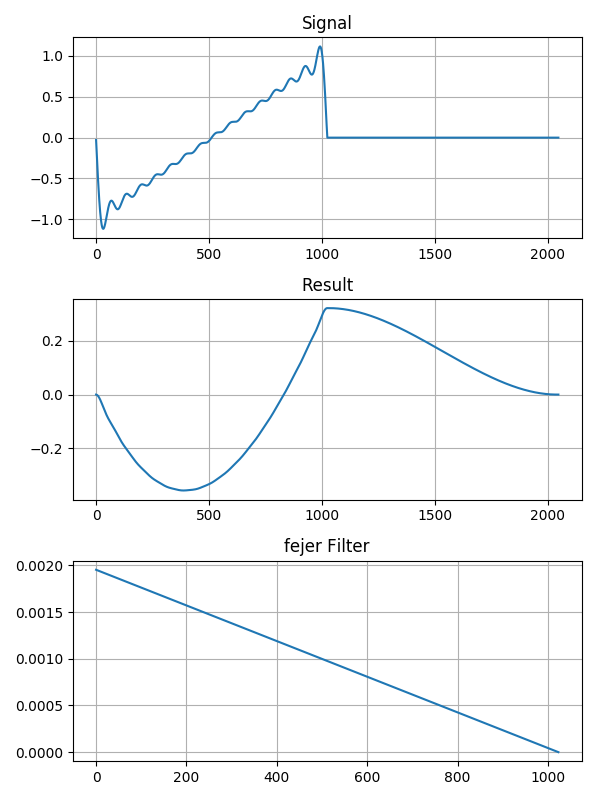
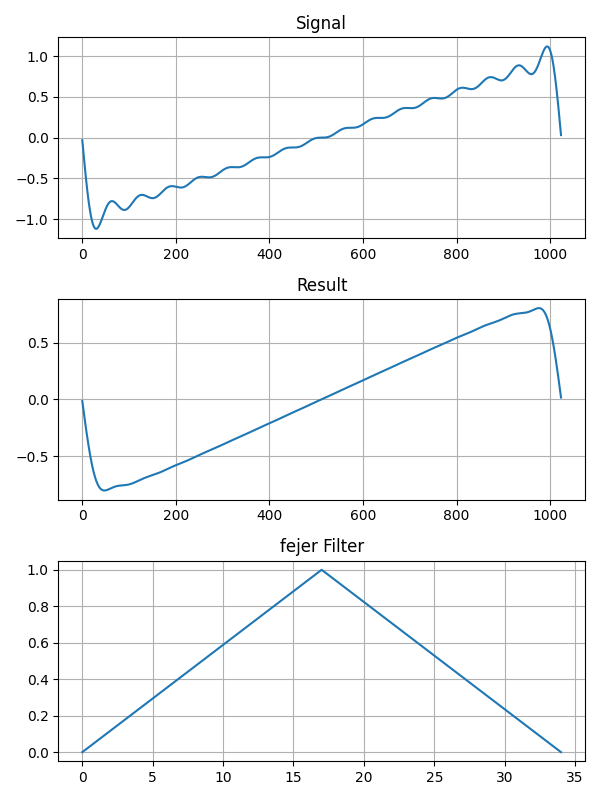
Fix gibbs
Several issues are pointed out by @NukeKarasawa40298 on GitHub. Their fix to `gibbs.py` (linked below) is merged into this commit.

https://github.com/NukeKarasawa40298/NukeKarasawa40298.github.io/blob/main/gibbs/gibbs_.py

List of fixes:

- Fix to apply filters on frequency domain instead of time domain.
- Fix Maxima code to compute Daubechies filter.

diff --git a/gibbs/demo/gibbs.py b/gibbs/demo/gibbs.py
@@ -30,21 +30,23 @@ def analyticSignal(length, numSeries):
     return spectralLowpass(noise, numSeries)
 
 
-def applyFilter(source, filterFunc, power=1):
-    filt = numpy.zeros(len(source))
-    half = (len(source) - 1) / 2
-    for i in range(len(filt)):
-        eta = (i - half) / half
+def applyFilter(source, filterFunc, numSeries, power=1):
+    spec = numpy.fft.rfft(source)
+    filt = numpy.zeros(len(spec))
+    m = numSeries + 1
+    for i in range(m):
+        eta = i / m
         filt[i] = filterFunc(eta) ** power
-    filt /= numpy.sum(filt)
 
-    return (convolve(source, filt, mode="full"), filt)
+    applied = numpy.fft.irfft(spec * filt)
+    filt = numpy.append(filt[m:0:-1], filt[: m + 1])  # for plot
+
+    return (applied, filt)
 
 
 def plotGibbsSuppression(length, filterFunc, numSeries=16, power=1):
     source = additiveSaw(length, numSeries)
-    suppressed, filt = applyFilter(source, filterFunc, power)
-    source = numpy.append(source, numpy.zeros(length))
+    suppressed, filt = applyFilter(source, filterFunc, numSeries, power)
     plot(
         source,
         suppressed,
@@ -54,7 +56,7 @@ def plotGibbsSuppression(length, filterFunc, numSeries=16, power=1):
     )
 
 
-def fejer(eta):
+def fejer(eta):  # eta < 0 があるなら要abs
     return 1 - eta
 
 
@@ -75,8 +77,8 @@ def exponential(eta, alpha=2**10, p=4):
     return numpy.exp(-alpha * eta**p)
 
 
-def daubechies(eta):
-    return 1 - 210 * eta**4 + 504 * eta**5 - 420 * eta**6 + 120 * eta**7
+def daubechies4(eta):  # eta < 0 があるなら要abs
+    return 1 - 35 * eta**4 + 84 * eta**5 - 70 * eta**6 + 20 * eta**7
 
 
 def plot(signal, result, params, param_name, file_name):
@@ -195,7 +197,7 @@ if __name__ == "__main__":
     plotGibbsSuppression(1024, raisedCosine, 16, 1)
     plotGibbsSuppression(1024, sharpendRaisedCosine, 16, 1)
     plotGibbsSuppression(1024, exponential, 16, 1)
-    plotGibbsSuppression(1024, daubechies, 16, 1)
+    plotGibbsSuppression(1024, daubechies4, 16, 1)
 
     plotGottleibShu(1024, 16)
     plotGottleibShuNoise(1024, analyticSignal, 16)

diff --git a/gibbs/gibbs.md b/gibbs/gibbs.md
@@ -1,7 +1,5 @@
 # ギブス現象を抑える
-**注意**: 内容が怪しいです。
-
-GottleibとShuの論文 ["ON THE GIBBS PHENOMENON AND ITS RESOLUTION"](http://dsec.pku.edu.cn/~tieli/notes/numer_anal/SIAMRev_39_644.pdf) を基に[ギブス現象](https://en.wikipedia.org/wiki/Gibbs_phenomenon)を抑える方法を試します。
+GottleibとShuの論文 ["ON THE GIBBS PHENOMENON AND ITS RESOLUTION"](https://citeseerx.ist.psu.edu/document?repid=rep1&type=pdf&doi=0aa153451c7fadf37cc0d2d48659e5bca0dec2e1) を基に[ギブス現象](https://en.wikipedia.org/wiki/Gibbs_phenomenon)を抑える方法を試します。
 
 この文章で実装したコードを[GitHubで見る](https://github.com/ryukau/filter_notes/blob/master/gibbs/demo/gibbs.py)ことができます。実行するには[SciPy](https://www.scipy.org/)、[pyFFTW](http://hgomersall.github.io/pyFFTW/)、[matplotlib](https://matplotlib.org/)が必要です。パラメータを変えて遊んでみてください。
 
@@ -32,21 +30,23 @@ def additiveSaw(length, numSeries):
     return spectralLowpass(numpy.linspace(-1, 1, length), numSeries)
 
 
-def applyFilter(source, filterFunc, power=1):
-    filt = numpy.zeros(len(source))
-    half = (len(source) - 1) / 2
-    for i in range(len(filt)):
-        eta = (i - half) / half
-        filt[i] = filterFunc(eta)**power
-    filt /= numpy.sum(filt)
+def applyFilter(source, filterFunc, numSeries, power=1):
+    spec = numpy.fft.rfft(source)
+    filt = numpy.zeros(len(spec))
+    m = numSeries + 1
+    for i in range(m):
+        eta = i / m
+        filt[i] = filterFunc(eta) ** power
 
-    return (convolve(source, filt, mode='full'), filt)
+    applied = numpy.fft.irfft(spec * filt)
+    filt = numpy.append(filt[m:0:-1], filt[: m + 1])  # プロットに使用。
+
+    return (applied, filt)
 
 
 def plotGibbsSuppression(length, filterFunc, numSeries=16, power=1):
     source = additiveSaw(length, numSeries)
-    suppressed, filt = applyFilter(source, filterFunc, power)
-    source = numpy.append(source, numpy.zeros(length))
+    suppressed, filt = applyFilter(source, filterFunc, numSeries, power)
     # 結果をプロットする。ここでは省略。
 ```
 
@@ -159,20 +159,20 @@ Maximaで展開します。 $p$ は任意の正の実数です。
 declare(eta, real, t, real);
 p: 4;
 I: integrate((t*(1 - t))**(4 - 1), t, 0, eta);
-expand(1 - (2 * p - 1)! / (p - 1)! * I);
+expand(1 - (2 * p - 1)! / (p - 1)!**2 * I);
 ```
 
 適当に $p = 4$ として実装します。
 
 ```python
-def daubechies(eta):
-    return 1 - 210 * eta**4 + 504 * eta**5 - 420**eta**6 + 120 * eta**7
+def daubechies4(eta):
+    return 1 - 35 * eta**4 + 84 * eta**5 - 70 * eta**6 + 20 * eta**7
 ```
 
 フィルタを適用した結果です。
 
 <figure>
-<img src="img/result_daubechies.png" alt="Image of a result of daubechies filter gibbs suppression." style="width: 600px; padding-bottom: 12px;"/>
+<img src="img/result_daubechies4.png" alt="Image of a result of daubechies filter gibbs suppression." style="width: 600px; padding-bottom: 12px;"/>
 </figure>
 
 ## Gegenbauer Polynomialを使う方法
@@ -308,3 +308,8 @@ $\lambda$ と $m$ が大きいと Gegenbauer Polynomial の計算でオーバー
 
 ## その他
 Gegenbauer polynomialを使う方法の $m$ を増やしていくことで、Gegenbauer polynomialによる信号の加算合成ができます。ただし信号の両端の値が非常に大きくなるので[Tukey窓](https://docs.scipy.org/doc/scipy/reference/generated/scipy.signal.tukey.html#scipy.signal.tukey)などを掛け合わせて抑える必要があります。また $\lambda = 1$ とすることで、ある程度はオーバーフローを避けることができます。
+
+## 変更点
+- 2024/04/16
+  - [NukeKarasawa40298 さんによって修正されたコード](https://github.com/NukeKarasawa40298/NukeKarasawa40298.github.io/blob/main/gibbs/gibbs_.py)を用いて、フィルタを周波数領域でかけるように修正。
+  - Daubechiesフィルタの Maxima のコードの間違いを修正。
